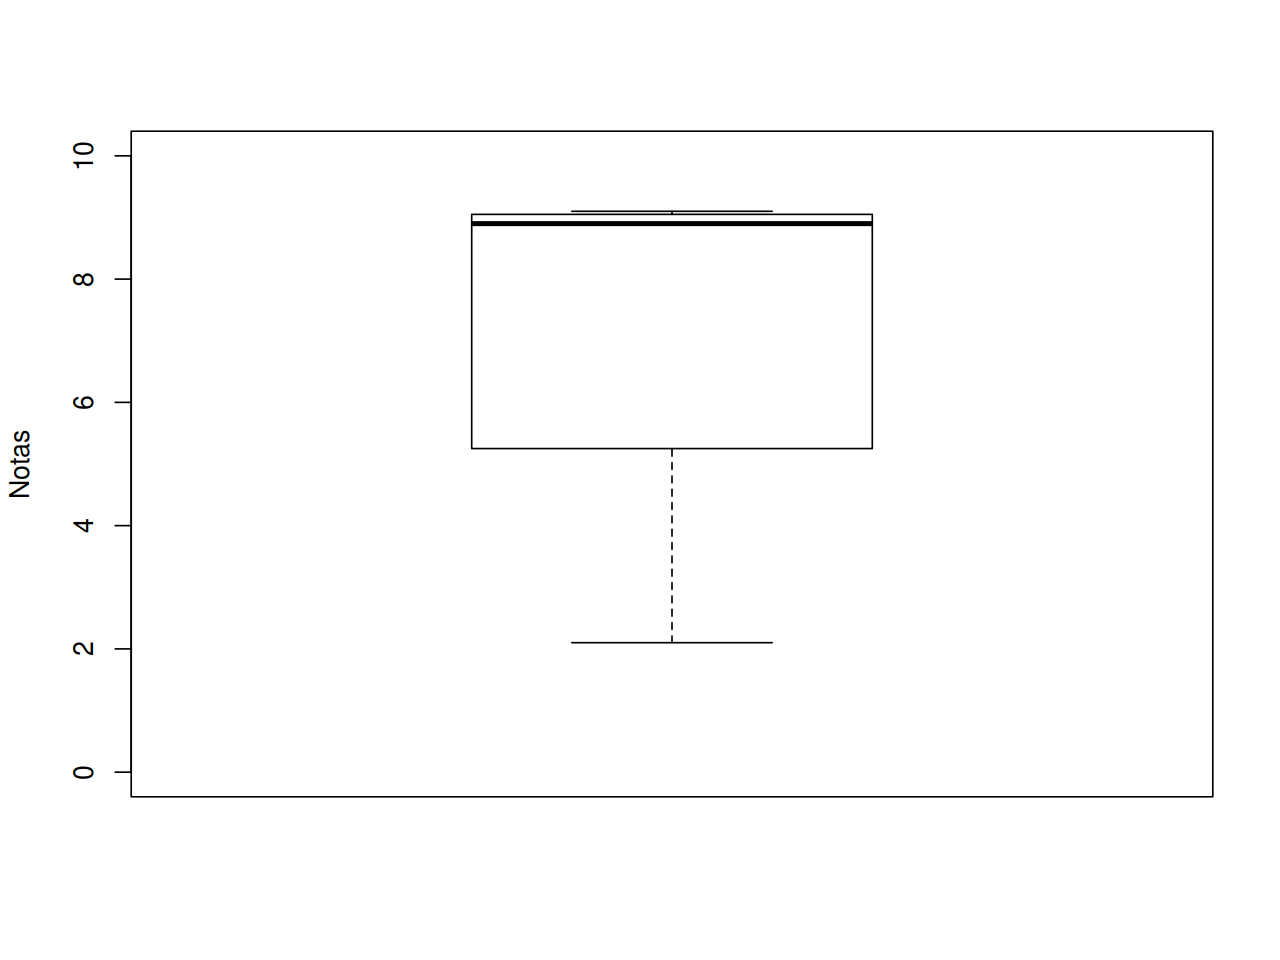
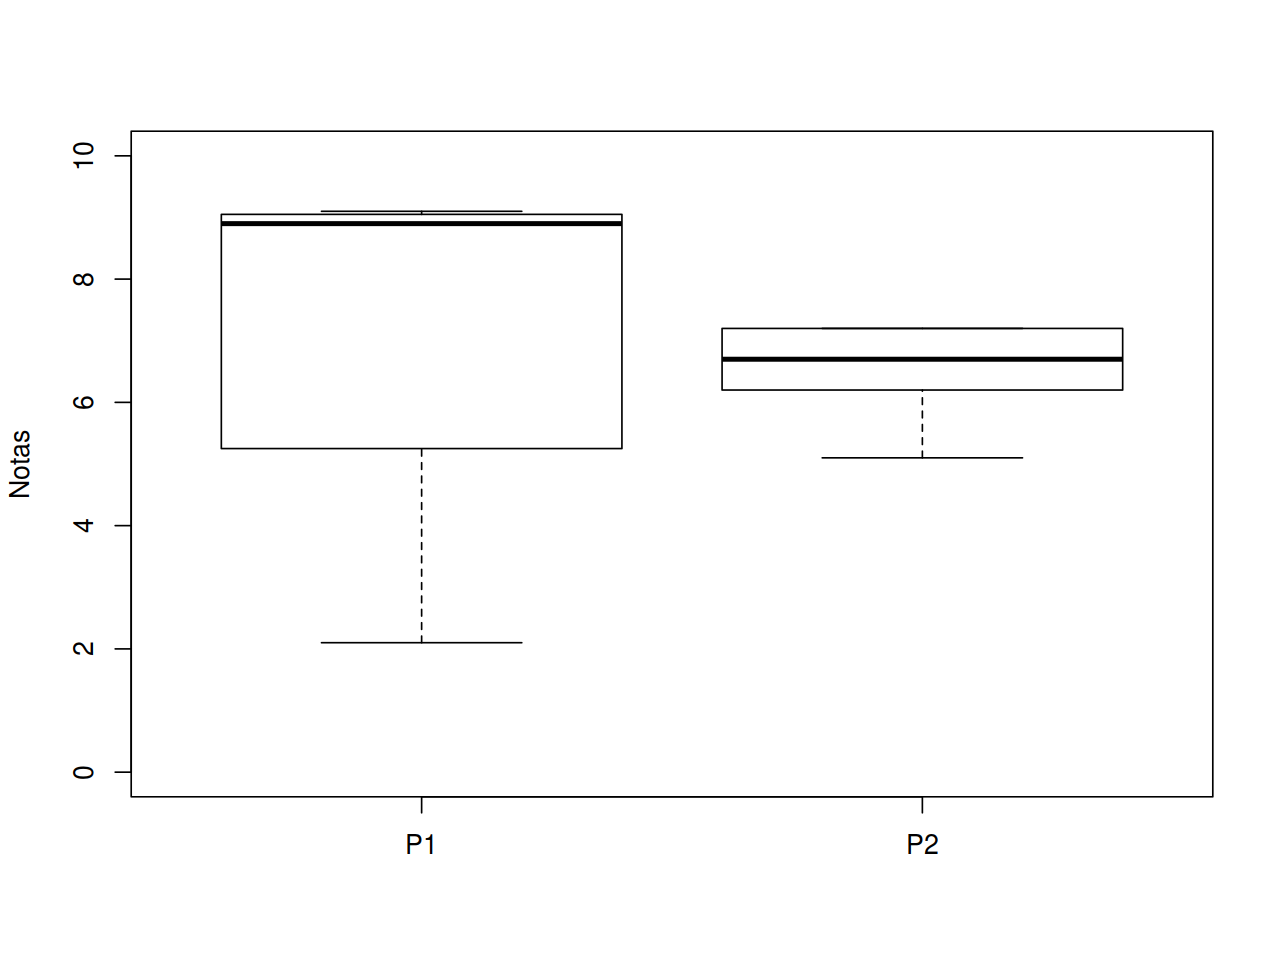
Notas da P2 e navbar atualizado

diff --git a/notas.html b/notas.html
@@ -253,6 +253,9 @@ $(document).ready(function () {
     <li>
       <a href="exercicios/04_Probabilidade.pdf">Probabilidade [PDF]</a>
     </li>
+    <li>
+      <a href="exercicios/05_Inferencia.pdf">Inferência [PDF]</a>
+    </li>
   </ul>
 </li>
       </ul>
@@ -310,7 +313,7 @@ hist(notas.all, breaks = breaks, right = FALSE, include.lowest = TRUE,
 }
 round(statm(notas.all), 2)</code></pre>
 <pre><code>  Min    Q1    Q2    Q3   Max Média     s   NAs 
- 2.10  5.25  8.90  9.05  9.10  6.96  3.21  6.00 </code></pre>
+ 2.10  5.65  7.20  8.95  9.10  6.76  2.44 14.00 </code></pre>
 </div>
 <div id="resumos-por-prova" class="section level2">
 <h2>Resumos por prova</h2>
@@ -320,15 +323,15 @@ boxplot(notas[, notas.col], ylim = c(0, 10), ylab = &quot;Notas&quot;)</code></p
 <p><img src="figures/unnamed-chunk-4-1.png" width="640" style="display: block; margin: auto;" /></p>
 <p>Resumo dos cinco números, média, desvio-padrão, e número de provas não realizadas (NA):</p>
 <pre class="r"><code>round(apply(notas[, notas.col, drop = FALSE], 2, statm), 2)</code></pre>
-<pre><code>        P1
-Min   2.10
-Q1    5.25
-Q2    8.90
-Q3    9.05
-Max   9.10
-Média 6.96
-s     3.21
-NAs   6.00</code></pre>
+<pre><code>        P1   P2
+Min   2.10 5.10
+Q1    5.25 6.20
+Q2    8.90 6.70
+Q3    9.05 7.20
+Max   9.10 7.20
+Média 6.96 6.48
+s     3.21 0.88
+NAs   6.00 8.00</code></pre>
 </div>
 <div id="notas-individuais" class="section level2">
 <h2>Notas individuais</h2>
@@ -340,59 +343,73 @@ NAs   6.00</code></pre>
 <tr class="header">
 <th align="center">Matricula</th>
 <th align="center">P1</th>
+<th align="center">P2</th>
 </tr>
 </thead>
 <tbody>
 <tr class="odd">
 <td align="center">20123200</td>
 <td align="center">2.1</td>
+<td align="center">NA</td>
 </tr>
 <tr class="even">
 <td align="center">20131111</td>
 <td align="center">9.0</td>
+<td align="center">7.2</td>
 </tr>
 <tr class="odd">
 <td align="center">20131487</td>
 <td align="center">8.9</td>
+<td align="center">NA</td>
 </tr>
 <tr class="even">
 <td align="center">20132481</td>
 <td align="center">9.1</td>
+<td align="center">7.2</td>
 </tr>
 <tr class="odd">
 <td align="center">20136648</td>
 <td align="center">8.0</td>
+<td align="center">5.1</td>
 </tr>
 <tr class="even">
 <td align="center">20147987</td>
 <td align="center">9.1</td>
+<td align="center">6.2</td>
 </tr>
 <tr class="odd">
 <td align="center">20148728</td>
+<td align="center">NA</td>
 <td align="center">NA</td>
 </tr>
 <tr class="even">
 <td align="center">20150476</td>
 <td align="center">NA</td>
+<td align="center">NA</td>
 </tr>
 <tr class="odd">
 <td align="center">20154698</td>
 <td align="center">2.5</td>
+<td align="center">6.7</td>
 </tr>
 <tr class="even">
 <td align="center">20157864</td>
+<td align="center">NA</td>
 <td align="center">NA</td>
 </tr>
 <tr class="odd">
 <td align="center">20158854</td>
 <td align="center">NA</td>
+<td align="center">NA</td>
 </tr>
 <tr class="even">
 <td align="center">20161294</td>
 <td align="center">NA</td>
+<td align="center">NA</td>
 </tr>
 <tr class="odd">
 <td align="center">20161460</td>
+<td align="center">NA</td>
 <td align="center">NA</td>
 </tr>
 </tbody>

diff --git a/index.html b/index.html
@@ -253,6 +253,9 @@ $(document).ready(function () {
     <li>
       <a href="exercicios/04_Probabilidade.pdf">Probabilidade [PDF]</a>
     </li>
+    <li>
+      <a href="exercicios/05_Inferencia.pdf">Inferência [PDF]</a>
+    </li>
   </ul>
 </li>
       </ul>
@@ -287,14 +290,14 @@ $(document).ready(function () {
 
 
 <p><a href="https://travis-ci.org/fernandomayer/ce001e-2016-2"><img src="https://travis-ci.org/fernandomayer/ce001e-2016-2.svg" alt="Build Status" /></a></p>
-<div class="alert alert-danger" role="alert">
-<p><strong>ATENÇÃO!</strong></p>
-<!-- - A segunda prova está disponível neste [link](exercicios/P2_ce001.pdf), -->
-<!--   e deve ser entregue até o dia 28/11 (segunda-feira). -->
-<ul>
-<li>Haverá aula também às segundas-feiras nos dias: 28/11 e 05/12. <!-- - Enquanto durar a ocupação no prédio de Exatas, as aulas serão no --> <!--   LABEST. --></li>
-</ul>
-</div>
+<!-- <div class="alert alert-danger" role="alert"> -->
+<!-- **ATENÇÃO!** -->
+<!-- <\!-- - A segunda prova está disponível neste [link](exercicios/P2_ce001.pdf), -\-> -->
+<!-- <\!--   e deve ser entregue até o dia 28/11 (segunda-feira). -\-> -->
+<!-- - Haverá aula também às segundas-feiras nos dias: 28/11 e 05/12. -->
+<!-- <\!-- - Enquanto durar a ocupação no prédio de Exatas, as aulas serão no -\-> -->
+<!-- <\!--   LABEST. -\-> -->
+<!-- </div> -->
 <div id="detalhes-da-oferta-da-disciplina" class="section level1">
 <h1>Detalhes da oferta da disciplina</h1>
 <ul>

diff --git a/aulas.html b/aulas.html
@@ -253,6 +253,9 @@ $(document).ready(function () {
     <li>
       <a href="exercicios/04_Probabilidade.pdf">Probabilidade [PDF]</a>
     </li>
+    <li>
+      <a href="exercicios/05_Inferencia.pdf">Inferência [PDF]</a>
+    </li>
   </ul>
 </li>
       </ul>
@@ -313,7 +316,7 @@ $(document).ready(function () {
 <li><strong>23/11</strong>: Inferência estatística. Distribuições amostrais para a média para proporção. <a href="06_Distribuicoes_amostrais/06_Distribuicoes_amostrais.pdf">Slides</a>. Figuras: <a href="06_Distribuicoes_amostrais/dist_amostral_idades.pdf">dist_amostral_idades.pdf</a>, <a href="06_Distribuicoes_amostrais/dist_amostrais.pdf">dist_amostrais.pdf</a>, <a href="06_Distribuicoes_amostrais/dist_amostral_proporcoes.pdf">dist_amostral_proporcoes.pdf</a>.</li>
 <li><strong>28/11</strong>: (Extra): <strong>Entrega da <a href="exercicios/P2_ce001.pdf">segunda prova</a></strong>. Estimação intervalar. <a href="07_Estimacao_intervalar/07_Estimacao_intervalar.pdf">Slides</a>.</li>
 <li><strong>30/11</strong>: Testes de hipótese. <a href="08_Teste_de_hipotese/08_Teste_de_hipotese.pdf">Slides</a>.</li>
-<li><strong>05/12</strong>: (Extra): Testes de hipótese.</li>
+<li><strong>05/12</strong>: (Extra): Testes de hipótese. <a href="08_Teste_de_hipotese/08_Teste_de_hipotese.pdf">Slides</a>.</li>
 <li><strong>07/12</strong>: <strong>Terceira prova</strong></li>
 </ul>
 <div id="exercicios" class="section level2">

diff --git a/recursos.html b/recursos.html
@@ -253,6 +253,9 @@ $(document).ready(function () {
     <li>
       <a href="exercicios/04_Probabilidade.pdf">Probabilidade [PDF]</a>
     </li>
+    <li>
+      <a href="exercicios/05_Inferencia.pdf">Inferência [PDF]</a>
+    </li>
   </ul>
 </li>
       </ul>

diff --git a/referencias.html b/referencias.html
@@ -253,6 +253,9 @@ $(document).ready(function () {
     <li>
       <a href="exercicios/04_Probabilidade.pdf">Probabilidade [PDF]</a>
     </li>
+    <li>
+      <a href="exercicios/05_Inferencia.pdf">Inferência [PDF]</a>
+    </li>
   </ul>
 </li>
       </ul>

diff --git a/02_Analise_Exploratoria_de_Dados.html b/02_Analise_Exploratoria_de_Dados.html
@@ -357,6 +357,9 @@ div.tocify {
     <li>
       <a href="exercicios/04_Probabilidade.pdf">Probabilidade [PDF]</a>
     </li>
+    <li>
+      <a href="exercicios/05_Inferencia.pdf">Inferência [PDF]</a>
+    </li>
   </ul>
 </li>
       </ul>

diff --git a/README.html b/README.html
@@ -356,6 +356,9 @@ div.tocify {
     <li>
       <a href="exercicios/04_Probabilidade.pdf">Probabilidade [PDF]</a>
     </li>
+    <li>
+      <a href="exercicios/05_Inferencia.pdf">Inferência [PDF]</a>
+    </li>
   </ul>
 </li>
       </ul>
